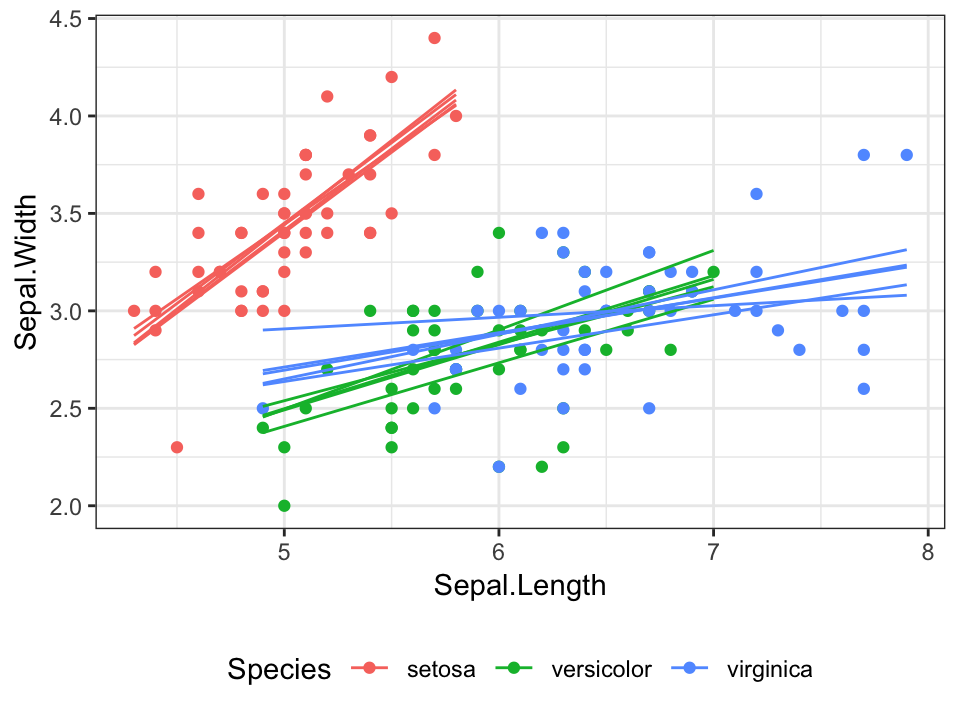
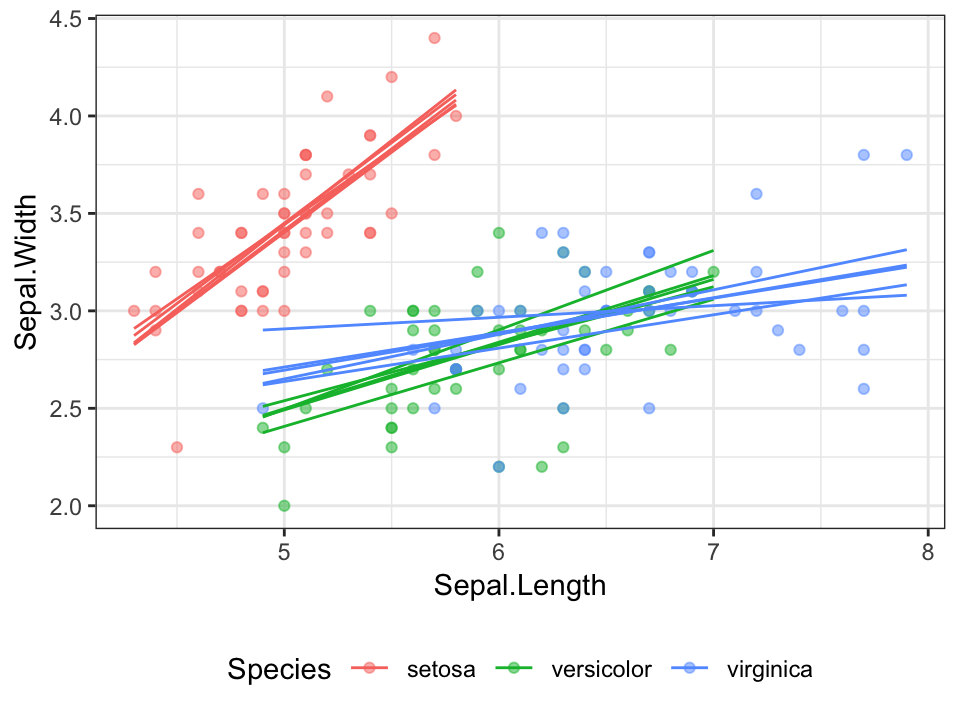
new animation

diff --git a/docs/articles/posterior-draws.html b/docs/articles/posterior-draws.html
@@ -86,7 +86,7 @@
       <h1>Posterior draws from a fitted model</h1>
                         <h4 class="author">Claus O. Wilke</h4>
             
-            <h4 class="date">2019-01-06</h4>
+            <h4 class="date">2019-01-07</h4>
       
       <small class="dont-index">Source: <a href="https://github.com/wilkelab/ungeviz/blob/master/vignettes/posterior-draws.Rmd"><code>vignettes/posterior-draws.Rmd</code></a></small>
       <div class="hidden name"><code>posterior-draws.Rmd</code></div>
@@ -106,7 +106,7 @@
 <a class="sourceLine" id="cb1-6" data-line-number="6"><span class="st">  </span><span class="kw"><a href="../reference/stat_smooth_draws.html">stat_smooth_draws</a></span>(<span class="kw"><a href="https://ggplot2.tidyverse.org/reference/aes.html">aes</a></span>(<span class="dt">group =</span> <span class="kw"><a href="https://ggplot2.tidyverse.org/reference/stat.html">stat</a></span>(.draw)), <span class="dt">size =</span> <span class="fl">0.5</span>) <span class="op">+</span></a>
 <a class="sourceLine" id="cb1-7" data-line-number="7"><span class="st">  </span><span class="kw"><a href="https://ggplot2.tidyverse.org/reference/ggtheme.html">theme_bw</a></span>()</a></code></pre></div>
 <p><img src="posterior-draws_files/figure-html/mpg-smooth-draws-1.png" width="480"></p>
-<p>When making a HOP animation, we don’t need to set the <code>group</code> aesthetic, because we are now transitioning animation frames based on the distinct draws. Note that we have to use <code><a href="https://ggplot2.tidyverse.org/reference/stat.html">stat(.draw)</a></code> instead of just <code>.draw</code> as the argument to <code><a href="https://www.rdocumentation.org/packages/gganimate/topics/transition_states">transition_states()</a></code>. The <code>.draw</code> column is not present in the original dataset, it is autogenerated by <code><a href="../reference/stat_smooth_draws.html">stat_smooth_draws()</a></code>.</p>
+<p>When making a HOP animation, we don’t necessarily have to set the <code>group</code> aesthetic, because we are now transitioning animation frames based on the distinct draws. Note that we have to use <code><a href="https://ggplot2.tidyverse.org/reference/stat.html">stat(.draw)</a></code> instead of just <code>.draw</code> as the argument to <code><a href="https://www.rdocumentation.org/packages/gganimate/topics/transition_states">transition_states()</a></code>. The <code>.draw</code> column is not present in the original dataset, it is autogenerated by <code><a href="../reference/stat_smooth_draws.html">stat_smooth_draws()</a></code>.</p>
 <div class="sourceCode" id="cb2"><pre class="sourceCode r"><code class="sourceCode r"><a class="sourceLine" id="cb2-1" data-line-number="1"><span class="kw"><a href="https://www.rdocumentation.org/packages/base/topics/library">library</a></span>(gganimate)</a>
 <a class="sourceLine" id="cb2-2" data-line-number="2"></a>
 <a class="sourceLine" id="cb2-3" data-line-number="3"><span class="kw"><a href="https://ggplot2.tidyverse.org/reference/ggplot.html">ggplot</a></span>(mtcars, <span class="kw"><a href="https://ggplot2.tidyverse.org/reference/aes.html">aes</a></span>(disp, mpg)) <span class="op">+</span></a>
@@ -115,7 +115,7 @@
 <a class="sourceLine" id="cb2-6" data-line-number="6"><span class="st">  </span><span class="kw"><a href="https://ggplot2.tidyverse.org/reference/ggtheme.html">theme_bw</a></span>() <span class="op">+</span></a>
 <a class="sourceLine" id="cb2-7" data-line-number="7"><span class="st">  </span><span class="kw"><a href="https://www.rdocumentation.org/packages/gganimate/topics/transition_states">transition_states</a></span>(<span class="kw"><a href="https://ggplot2.tidyverse.org/reference/stat.html">stat</a></span>(.draw), <span class="dv">1</span>, <span class="dv">2</span>)</a></code></pre></div>
 <p><img src="posterior-draws_files/figure-html/mpg-smooth-draws-animated-1.gif"><!-- --></p>
-<p>By default, gganimate will deform one smooth line until it looks like the next one. We may prefer to have the lines fade in and out, however. We can achieve this effect by setting the <code>group</code> aesthetic of <code><a href="../reference/stat_smooth_draws.html">stat_smooth_draws()</a></code> to <code><a href="https://ggplot2.tidyverse.org/reference/stat.html">stat(.draw)</a></code>, so that gganimate sees the separate lines as distinct objects. We additionally add <code><a href="https://www.rdocumentation.org/packages/gganimate/topics/enter_exit">enter_fade()</a></code> and <code><a href="https://www.rdocumentation.org/packages/gganimate/topics/enter_exit">exit_fade()</a></code> to make the lines fade in and out.</p>
+<p>If we don’t set the group aesthetic of <code><a href="../reference/stat_smooth_draws.html">stat_smooth_draws()</a></code>, gganimate will deform one smooth line until it looks like the next one. We may prefer to have the lines fade in and out, however. We can achieve this effect by setting the <code>group</code> aesthetic to <code><a href="https://ggplot2.tidyverse.org/reference/stat.html">stat(.draw)</a></code>, so that gganimate sees the separate lines as distinct objects. We additionally add <code><a href="https://www.rdocumentation.org/packages/gganimate/topics/enter_exit">enter_fade()</a></code> and <code><a href="https://www.rdocumentation.org/packages/gganimate/topics/enter_exit">exit_fade()</a></code> to make the lines fade in and out.</p>
 <div class="sourceCode" id="cb3"><pre class="sourceCode r"><code class="sourceCode r"><a class="sourceLine" id="cb3-1" data-line-number="1"><span class="kw"><a href="https://ggplot2.tidyverse.org/reference/ggplot.html">ggplot</a></span>(mtcars, <span class="kw"><a href="https://ggplot2.tidyverse.org/reference/aes.html">aes</a></span>(disp, mpg)) <span class="op">+</span></a>
 <a class="sourceLine" id="cb3-2" data-line-number="2"><span class="st">  </span><span class="kw"><a href="https://ggplot2.tidyverse.org/reference/geom_point.html">geom_point</a></span>() <span class="op">+</span></a>
 <a class="sourceLine" id="cb3-3" data-line-number="3"><span class="st">  </span><span class="kw"><a href="../reference/stat_smooth_draws.html">stat_smooth_draws</a></span>(<span class="dt">size =</span> <span class="fl">0.5</span>, <span class="kw"><a href="https://ggplot2.tidyverse.org/reference/aes.html">aes</a></span>(<span class="dt">group =</span> <span class="kw"><a href="https://ggplot2.tidyverse.org/reference/stat.html">stat</a></span>(.draw))) <span class="op">+</span></a>
@@ -174,7 +174,7 @@
 <p><img src="posterior-draws_files/figure-html/gam-outcomes-manual-1.png" width="480"></p>
 <p>It can happen that we want to group both by draws and by some other variable, in case we want to generate draws for multiple different subsets of the data at the same time. We can do so with one caveat. We have to use the mapped version of the respective data column (e.g., map it to <code>colour</code> and then use <code>colour</code> on the right side of the aesthetic specification) because we’re creating the groups after after initial data mapping. We can use <code><a href="https://www.rdocumentation.org/packages/base/topics/interaction">interaction()</a></code> to combine different grouping variables, e.g. here <code><a href="https://ggplot2.tidyverse.org/reference/stat.html">stat(.draw)</a></code> and <code>colour</code>.</p>
 <div class="sourceCode" id="cb7"><pre class="sourceCode r"><code class="sourceCode r"><a class="sourceLine" id="cb7-1" data-line-number="1"><span class="kw"><a href="https://ggplot2.tidyverse.org/reference/ggplot.html">ggplot</a></span>(iris, <span class="kw"><a href="https://ggplot2.tidyverse.org/reference/aes.html">aes</a></span>(Sepal.Length, Sepal.Width, <span class="dt">colour =</span> Species)) <span class="op">+</span></a>
-<a class="sourceLine" id="cb7-2" data-line-number="2"><span class="st">  </span><span class="kw"><a href="https://ggplot2.tidyverse.org/reference/geom_point.html">geom_point</a></span>() <span class="op">+</span></a>
+<a class="sourceLine" id="cb7-2" data-line-number="2"><span class="st">  </span><span class="kw"><a href="https://ggplot2.tidyverse.org/reference/geom_point.html">geom_point</a></span>(<span class="dt">alpha =</span> <span class="dv">1</span><span class="op">/</span><span class="dv">2</span>) <span class="op">+</span></a>
 <a class="sourceLine" id="cb7-3" data-line-number="3"><span class="st">  </span><span class="kw"><a href="../reference/stat_smooth_draws.html">stat_smooth_draws</a></span>(</a>
 <a class="sourceLine" id="cb7-4" data-line-number="4">    <span class="dt">times =</span> <span class="dv">5</span>,</a>
 <a class="sourceLine" id="cb7-5" data-line-number="5">    <span class="dt">formula =</span> y <span class="op">~</span><span class="st"> </span>x,</a>
@@ -183,25 +183,39 @@
 <a class="sourceLine" id="cb7-8" data-line-number="8">  ) <span class="op">+</span></a>
 <a class="sourceLine" id="cb7-9" data-line-number="9"><span class="st">  </span><span class="kw"><a href="https://ggplot2.tidyverse.org/reference/ggtheme.html">theme_bw</a></span>() <span class="op">+</span><span class="st"> </span><span class="kw"><a href="https://ggplot2.tidyverse.org/reference/theme.html">theme</a></span>(<span class="dt">legend.position =</span> <span class="st">"bottom"</span>)</a></code></pre></div>
 <p><img src="posterior-draws_files/figure-html/iris-linear-1.png" width="480"></p>
+<p>The same principle also works in animation. Note that we can show the entire ensemble of sampled draws in addition to the animated lines by adding <code><a href="https://www.rdocumentation.org/packages/gganimate/topics/shadow_mark">shadow_mark(future = TRUE, ...)</a></code>, where <code>...</code> stands for additional aesthetic settings that define how the ensemble is styled.</p>
+<div class="sourceCode" id="cb8"><pre class="sourceCode r"><code class="sourceCode r"><a class="sourceLine" id="cb8-1" data-line-number="1"><span class="kw"><a href="https://ggplot2.tidyverse.org/reference/ggplot.html">ggplot</a></span>(iris, <span class="kw"><a href="https://ggplot2.tidyverse.org/reference/aes.html">aes</a></span>(Sepal.Length, Sepal.Width, <span class="dt">colour =</span> Species)) <span class="op">+</span></a>
+<a class="sourceLine" id="cb8-2" data-line-number="2"><span class="st">  </span><span class="kw"><a href="https://ggplot2.tidyverse.org/reference/geom_point.html">geom_point</a></span>(<span class="dt">alpha =</span> <span class="dv">1</span><span class="op">/</span><span class="dv">2</span>) <span class="op">+</span></a>
+<a class="sourceLine" id="cb8-3" data-line-number="3"><span class="st">  </span><span class="kw"><a href="../reference/stat_smooth_draws.html">stat_smooth_draws</a></span>(</a>
+<a class="sourceLine" id="cb8-4" data-line-number="4">    <span class="dt">times =</span> <span class="dv">10</span>,</a>
+<a class="sourceLine" id="cb8-5" data-line-number="5">    <span class="dt">formula =</span> y <span class="op">~</span><span class="st"> </span>x,</a>
+<a class="sourceLine" id="cb8-6" data-line-number="6">    <span class="kw"><a href="https://ggplot2.tidyverse.org/reference/aes.html">aes</a></span>(<span class="dt">group =</span> <span class="kw"><a href="https://www.rdocumentation.org/packages/base/topics/interaction">interaction</a></span>(<span class="kw"><a href="https://ggplot2.tidyverse.org/reference/stat.html">stat</a></span>(.draw), colour)),</a>
+<a class="sourceLine" id="cb8-7" data-line-number="7">    <span class="dt">size =</span> <span class="fl">1.5</span></a>
+<a class="sourceLine" id="cb8-8" data-line-number="8">  ) <span class="op">+</span></a>
+<a class="sourceLine" id="cb8-9" data-line-number="9"><span class="st">  </span><span class="kw"><a href="https://ggplot2.tidyverse.org/reference/ggtheme.html">theme_bw</a></span>() <span class="op">+</span><span class="st"> </span><span class="kw"><a href="https://ggplot2.tidyverse.org/reference/theme.html">theme</a></span>(<span class="dt">legend.position =</span> <span class="st">"bottom"</span>) <span class="op">+</span></a>
+<a class="sourceLine" id="cb8-10" data-line-number="10"><span class="st">  </span><span class="kw"><a href="https://www.rdocumentation.org/packages/gganimate/topics/transition_states">transition_states</a></span>(<span class="kw"><a href="https://ggplot2.tidyverse.org/reference/stat.html">stat</a></span>(.draw), <span class="dv">1</span>, <span class="dv">2</span>) <span class="op">+</span></a>
+<a class="sourceLine" id="cb8-11" data-line-number="11"><span class="st">  </span><span class="kw"><a href="https://www.rdocumentation.org/packages/gganimate/topics/enter_exit">enter_fade</a></span>() <span class="op">+</span><span class="st"> </span><span class="kw"><a href="https://www.rdocumentation.org/packages/gganimate/topics/enter_exit">exit_fade</a></span>() <span class="op">+</span></a>
+<a class="sourceLine" id="cb8-12" data-line-number="12"><span class="st">  </span><span class="kw"><a href="https://www.rdocumentation.org/packages/gganimate/topics/shadow_mark">shadow_mark</a></span>(<span class="dt">future =</span> <span class="ot">TRUE</span>, <span class="dt">size =</span> <span class="fl">0.25</span>, <span class="dt">color =</span> <span class="st">"gray50"</span>, <span class="dt">alpha =</span> <span class="dv">1</span><span class="op">/</span><span class="dv">4</span>)</a></code></pre></div>
+<p><img src="posterior-draws_files/figure-html/iris-linear-animation-1.gif"><!-- --></p>
 <p>In a direct comparison between posterior draws and bootstrapped fits, we see that both approaches result in similar sets of curves, though bootstraps tend to cover the outcome space less uniformly, with curves being either very similar to each other or quite different. This happens because in bootstrapping the influence of individual data points varies in discrete steps, from nothing (when a data point is dropped in a bootstrap) to several multiples (when a data point is chosen three or four times).</p>
-<div class="sourceCode" id="cb8"><pre class="sourceCode r"><code class="sourceCode r"><a class="sourceLine" id="cb8-1" data-line-number="1">p1 &lt;-<span class="st"> </span><span class="kw"><a href="https://ggplot2.tidyverse.org/reference/ggplot.html">ggplot</a></span>(mtcars, <span class="kw"><a href="https://ggplot2.tidyverse.org/reference/aes.html">aes</a></span>(disp, mpg)) <span class="op">+</span></a>
-<a class="sourceLine" id="cb8-2" data-line-number="2"><span class="st">  </span><span class="kw"><a href="https://ggplot2.tidyverse.org/reference/geom_point.html">geom_point</a></span>() <span class="op">+</span></a>
-<a class="sourceLine" id="cb8-3" data-line-number="3"><span class="st">  </span><span class="kw"><a href="../reference/stat_smooth_draws.html">stat_smooth_draws</a></span>(<span class="dt">times =</span> <span class="dv">20</span>, <span class="kw"><a href="https://ggplot2.tidyverse.org/reference/aes.html">aes</a></span>(<span class="dt">group =</span> <span class="kw"><a href="https://ggplot2.tidyverse.org/reference/stat.html">stat</a></span>(.draw)), <span class="dt">size =</span> <span class="fl">0.3</span>) <span class="op">+</span></a>
-<a class="sourceLine" id="cb8-4" data-line-number="4"><span class="st">  </span><span class="kw"><a href="https://ggplot2.tidyverse.org/reference/ggtheme.html">theme_bw</a></span>() <span class="op">+</span></a>
-<a class="sourceLine" id="cb8-5" data-line-number="5"><span class="st">  </span><span class="kw"><a href="https://ggplot2.tidyverse.org/reference/labs.html">ggtitle</a></span>(<span class="st">"Posterior draws"</span>)</a>
-<a class="sourceLine" id="cb8-6" data-line-number="6"></a>
-<a class="sourceLine" id="cb8-7" data-line-number="7">p2 &lt;-<span class="st"> </span><span class="kw"><a href="https://ggplot2.tidyverse.org/reference/ggplot.html">ggplot</a></span>(mtcars, <span class="kw"><a href="https://ggplot2.tidyverse.org/reference/aes.html">aes</a></span>(disp, mpg)) <span class="op">+</span></a>
-<a class="sourceLine" id="cb8-8" data-line-number="8"><span class="st">  </span><span class="kw"><a href="https://ggplot2.tidyverse.org/reference/geom_point.html">geom_point</a></span>() <span class="op">+</span></a>
-<a class="sourceLine" id="cb8-9" data-line-number="9"><span class="st">  </span><span class="kw"><a href="https://ggplot2.tidyverse.org/reference/geom_smooth.html">geom_smooth</a></span>(</a>
-<a class="sourceLine" id="cb8-10" data-line-number="10">    <span class="dt">data =</span> <span class="kw"><a href="../reference/bootstrapper.html">bootstrapper</a></span>(<span class="dv">20</span>), <span class="kw"><a href="https://ggplot2.tidyverse.org/reference/aes.html">aes</a></span>(<span class="dt">group =</span> .draw), <span class="dt">size =</span> <span class="fl">0.3</span>,</a>
-<a class="sourceLine" id="cb8-11" data-line-number="11">    <span class="co"># use identical fit parameters as in stat_smooth_draws()</span></a>
-<a class="sourceLine" id="cb8-12" data-line-number="12">    <span class="dt">method =</span> <span class="st">"gam"</span>, <span class="dt">formula =</span> y <span class="op">~</span><span class="st"> </span><span class="kw"><a href="https://www.rdocumentation.org/packages/mgcv/topics/s">s</a></span>(x, <span class="dt">bs =</span> <span class="st">"cs"</span>), <span class="dt">method.args =</span> <span class="kw"><a href="https://www.rdocumentation.org/packages/base/topics/list">list</a></span>(<span class="dt">method =</span> <span class="st">"REML"</span>),</a>
-<a class="sourceLine" id="cb8-13" data-line-number="13">    <span class="dt">se =</span> <span class="ot">FALSE</span></a>
-<a class="sourceLine" id="cb8-14" data-line-number="14">  ) <span class="op">+</span></a>
-<a class="sourceLine" id="cb8-15" data-line-number="15"><span class="st">  </span><span class="kw"><a href="https://ggplot2.tidyverse.org/reference/ggtheme.html">theme_bw</a></span>() <span class="op">+</span></a>
-<a class="sourceLine" id="cb8-16" data-line-number="16"><span class="st">  </span><span class="kw"><a href="https://ggplot2.tidyverse.org/reference/labs.html">ggtitle</a></span>(<span class="st">"Bootstrap"</span>)</a>
-<a class="sourceLine" id="cb8-17" data-line-number="17"></a>
-<a class="sourceLine" id="cb8-18" data-line-number="18">cowplot<span class="op">::</span><span class="kw"><a href="https://www.rdocumentation.org/packages/cowplot/topics/plot_grid">plot_grid</a></span>(p1, p2, <span class="dt">ncol =</span> <span class="dv">1</span>)</a></code></pre></div>
+<div class="sourceCode" id="cb9"><pre class="sourceCode r"><code class="sourceCode r"><a class="sourceLine" id="cb9-1" data-line-number="1">p1 &lt;-<span class="st"> </span><span class="kw"><a href="https://ggplot2.tidyverse.org/reference/ggplot.html">ggplot</a></span>(mtcars, <span class="kw"><a href="https://ggplot2.tidyverse.org/reference/aes.html">aes</a></span>(disp, mpg)) <span class="op">+</span></a>
+<a class="sourceLine" id="cb9-2" data-line-number="2"><span class="st">  </span><span class="kw"><a href="https://ggplot2.tidyverse.org/reference/geom_point.html">geom_point</a></span>() <span class="op">+</span></a>
+<a class="sourceLine" id="cb9-3" data-line-number="3"><span class="st">  </span><span class="kw"><a href="../reference/stat_smooth_draws.html">stat_smooth_draws</a></span>(<span class="dt">times =</span> <span class="dv">20</span>, <span class="kw"><a href="https://ggplot2.tidyverse.org/reference/aes.html">aes</a></span>(<span class="dt">group =</span> <span class="kw"><a href="https://ggplot2.tidyverse.org/reference/stat.html">stat</a></span>(.draw)), <span class="dt">size =</span> <span class="fl">0.3</span>) <span class="op">+</span></a>
+<a class="sourceLine" id="cb9-4" data-line-number="4"><span class="st">  </span><span class="kw"><a href="https://ggplot2.tidyverse.org/reference/ggtheme.html">theme_bw</a></span>() <span class="op">+</span></a>
+<a class="sourceLine" id="cb9-5" data-line-number="5"><span class="st">  </span><span class="kw"><a href="https://ggplot2.tidyverse.org/reference/labs.html">ggtitle</a></span>(<span class="st">"Posterior draws"</span>)</a>
+<a class="sourceLine" id="cb9-6" data-line-number="6"></a>
+<a class="sourceLine" id="cb9-7" data-line-number="7">p2 &lt;-<span class="st"> </span><span class="kw"><a href="https://ggplot2.tidyverse.org/reference/ggplot.html">ggplot</a></span>(mtcars, <span class="kw"><a href="https://ggplot2.tidyverse.org/reference/aes.html">aes</a></span>(disp, mpg)) <span class="op">+</span></a>
+<a class="sourceLine" id="cb9-8" data-line-number="8"><span class="st">  </span><span class="kw"><a href="https://ggplot2.tidyverse.org/reference/geom_point.html">geom_point</a></span>() <span class="op">+</span></a>
+<a class="sourceLine" id="cb9-9" data-line-number="9"><span class="st">  </span><span class="kw"><a href="https://ggplot2.tidyverse.org/reference/geom_smooth.html">geom_smooth</a></span>(</a>
+<a class="sourceLine" id="cb9-10" data-line-number="10">    <span class="dt">data =</span> <span class="kw"><a href="../reference/bootstrapper.html">bootstrapper</a></span>(<span class="dv">20</span>), <span class="kw"><a href="https://ggplot2.tidyverse.org/reference/aes.html">aes</a></span>(<span class="dt">group =</span> .draw), <span class="dt">size =</span> <span class="fl">0.3</span>,</a>
+<a class="sourceLine" id="cb9-11" data-line-number="11">    <span class="co"># use identical fit parameters as in stat_smooth_draws()</span></a>
+<a class="sourceLine" id="cb9-12" data-line-number="12">    <span class="dt">method =</span> <span class="st">"gam"</span>, <span class="dt">formula =</span> y <span class="op">~</span><span class="st"> </span><span class="kw"><a href="https://www.rdocumentation.org/packages/mgcv/topics/s">s</a></span>(x, <span class="dt">bs =</span> <span class="st">"cs"</span>), <span class="dt">method.args =</span> <span class="kw"><a href="https://www.rdocumentation.org/packages/base/topics/list">list</a></span>(<span class="dt">method =</span> <span class="st">"REML"</span>),</a>
+<a class="sourceLine" id="cb9-13" data-line-number="13">    <span class="dt">se =</span> <span class="ot">FALSE</span></a>
+<a class="sourceLine" id="cb9-14" data-line-number="14">  ) <span class="op">+</span></a>
+<a class="sourceLine" id="cb9-15" data-line-number="15"><span class="st">  </span><span class="kw"><a href="https://ggplot2.tidyverse.org/reference/ggtheme.html">theme_bw</a></span>() <span class="op">+</span></a>
+<a class="sourceLine" id="cb9-16" data-line-number="16"><span class="st">  </span><span class="kw"><a href="https://ggplot2.tidyverse.org/reference/labs.html">ggtitle</a></span>(<span class="st">"Bootstrap"</span>)</a>
+<a class="sourceLine" id="cb9-17" data-line-number="17"></a>
+<a class="sourceLine" id="cb9-18" data-line-number="18">cowplot<span class="op">::</span><span class="kw"><a href="https://www.rdocumentation.org/packages/cowplot/topics/plot_grid">plot_grid</a></span>(p1, p2, <span class="dt">ncol =</span> <span class="dv">1</span>)</a></code></pre></div>
 <p><img src="posterior-draws_files/figure-html/posterior-draws-bootstrap-1.png" width="576"></p>
   </div>
 

diff --git a/docs/articles/sampling-bootstrapping.html b/docs/articles/sampling-bootstrapping.html
@@ -86,7 +86,7 @@
       <h1>Sampling and bootstrapping</h1>
                         <h4 class="author">Claus O. Wilke</h4>
             
-            <h4 class="date">2019-01-06</h4>
+            <h4 class="date">2019-01-07</h4>
       
       <small class="dont-index">Source: <a href="https://github.com/wilkelab/ungeviz/blob/master/vignettes/sampling-bootstrapping.Rmd"><code>vignettes/sampling-bootstrapping.Rmd</code></a></small>
       <div class="hidden name"><code>sampling-bootstrapping.Rmd</code></div>
@@ -99,7 +99,7 @@
 <div id="sampling-from-data-frames" class="section level2">
 <h2 class="hasAnchor">
 <a href="#sampling-from-data-frames" class="anchor"></a>Sampling from data frames</h2>
-<p>Both <code><a href="../reference/sampler.html">sampler()</a></code> and <code><a href="../reference/bootstrapper.html">bootstrapper()</a></code> return functions that can be applied to data frames to carry out the sampling or bootstrapping. The benefit of using these generated functions is that we can reproducibly sample or bootstrap multiple times. As an exampe of this concept, assume we want to three times two rows each (without replacement) from a data frame that holds one row for each letter in the alphabet.</p>
+<p>Both <code><a href="../reference/sampler.html">sampler()</a></code> and <code><a href="../reference/bootstrapper.html">bootstrapper()</a></code> return functions that can be applied to data frames to carry out the sampling or bootstrapping. The benefit of using these generated functions is that we can reproducibly sample or bootstrap multiple times. As an exampe of this concept, assume we want to sample three times two rows each (without replacement) from a data frame that holds one row for each letter in the alphabet.</p>
 <div class="sourceCode" id="cb1"><pre class="sourceCode r"><code class="sourceCode r"><a class="sourceLine" id="cb1-1" data-line-number="1"><span class="kw"><a href="https://www.rdocumentation.org/packages/base/topics/library">library</a></span>(ungeviz)</a>
 <a class="sourceLine" id="cb1-2" data-line-number="2"></a>
 <a class="sourceLine" id="cb1-3" data-line-number="3"><span class="co"># sampling object that samples 3 times a sample of size 2</span></a>

diff --git a/docs/articles/misc-geoms-stats.html b/docs/articles/misc-geoms-stats.html
@@ -86,7 +86,7 @@
       <h1>Miscellaneous geoms and stats</h1>
                         <h4 class="author">Claus O. Wilke</h4>
             
-            <h4 class="date">2019-01-06</h4>
+            <h4 class="date">2019-01-07</h4>
       
       <small class="dont-index">Source: <a href="https://github.com/wilkelab/ungeviz/blob/master/vignettes/misc-geoms-stats.Rmd"><code>vignettes/misc-geoms-stats.Rmd</code></a></small>
       <div class="hidden name"><code>misc-geoms-stats.Rmd</code></div>
